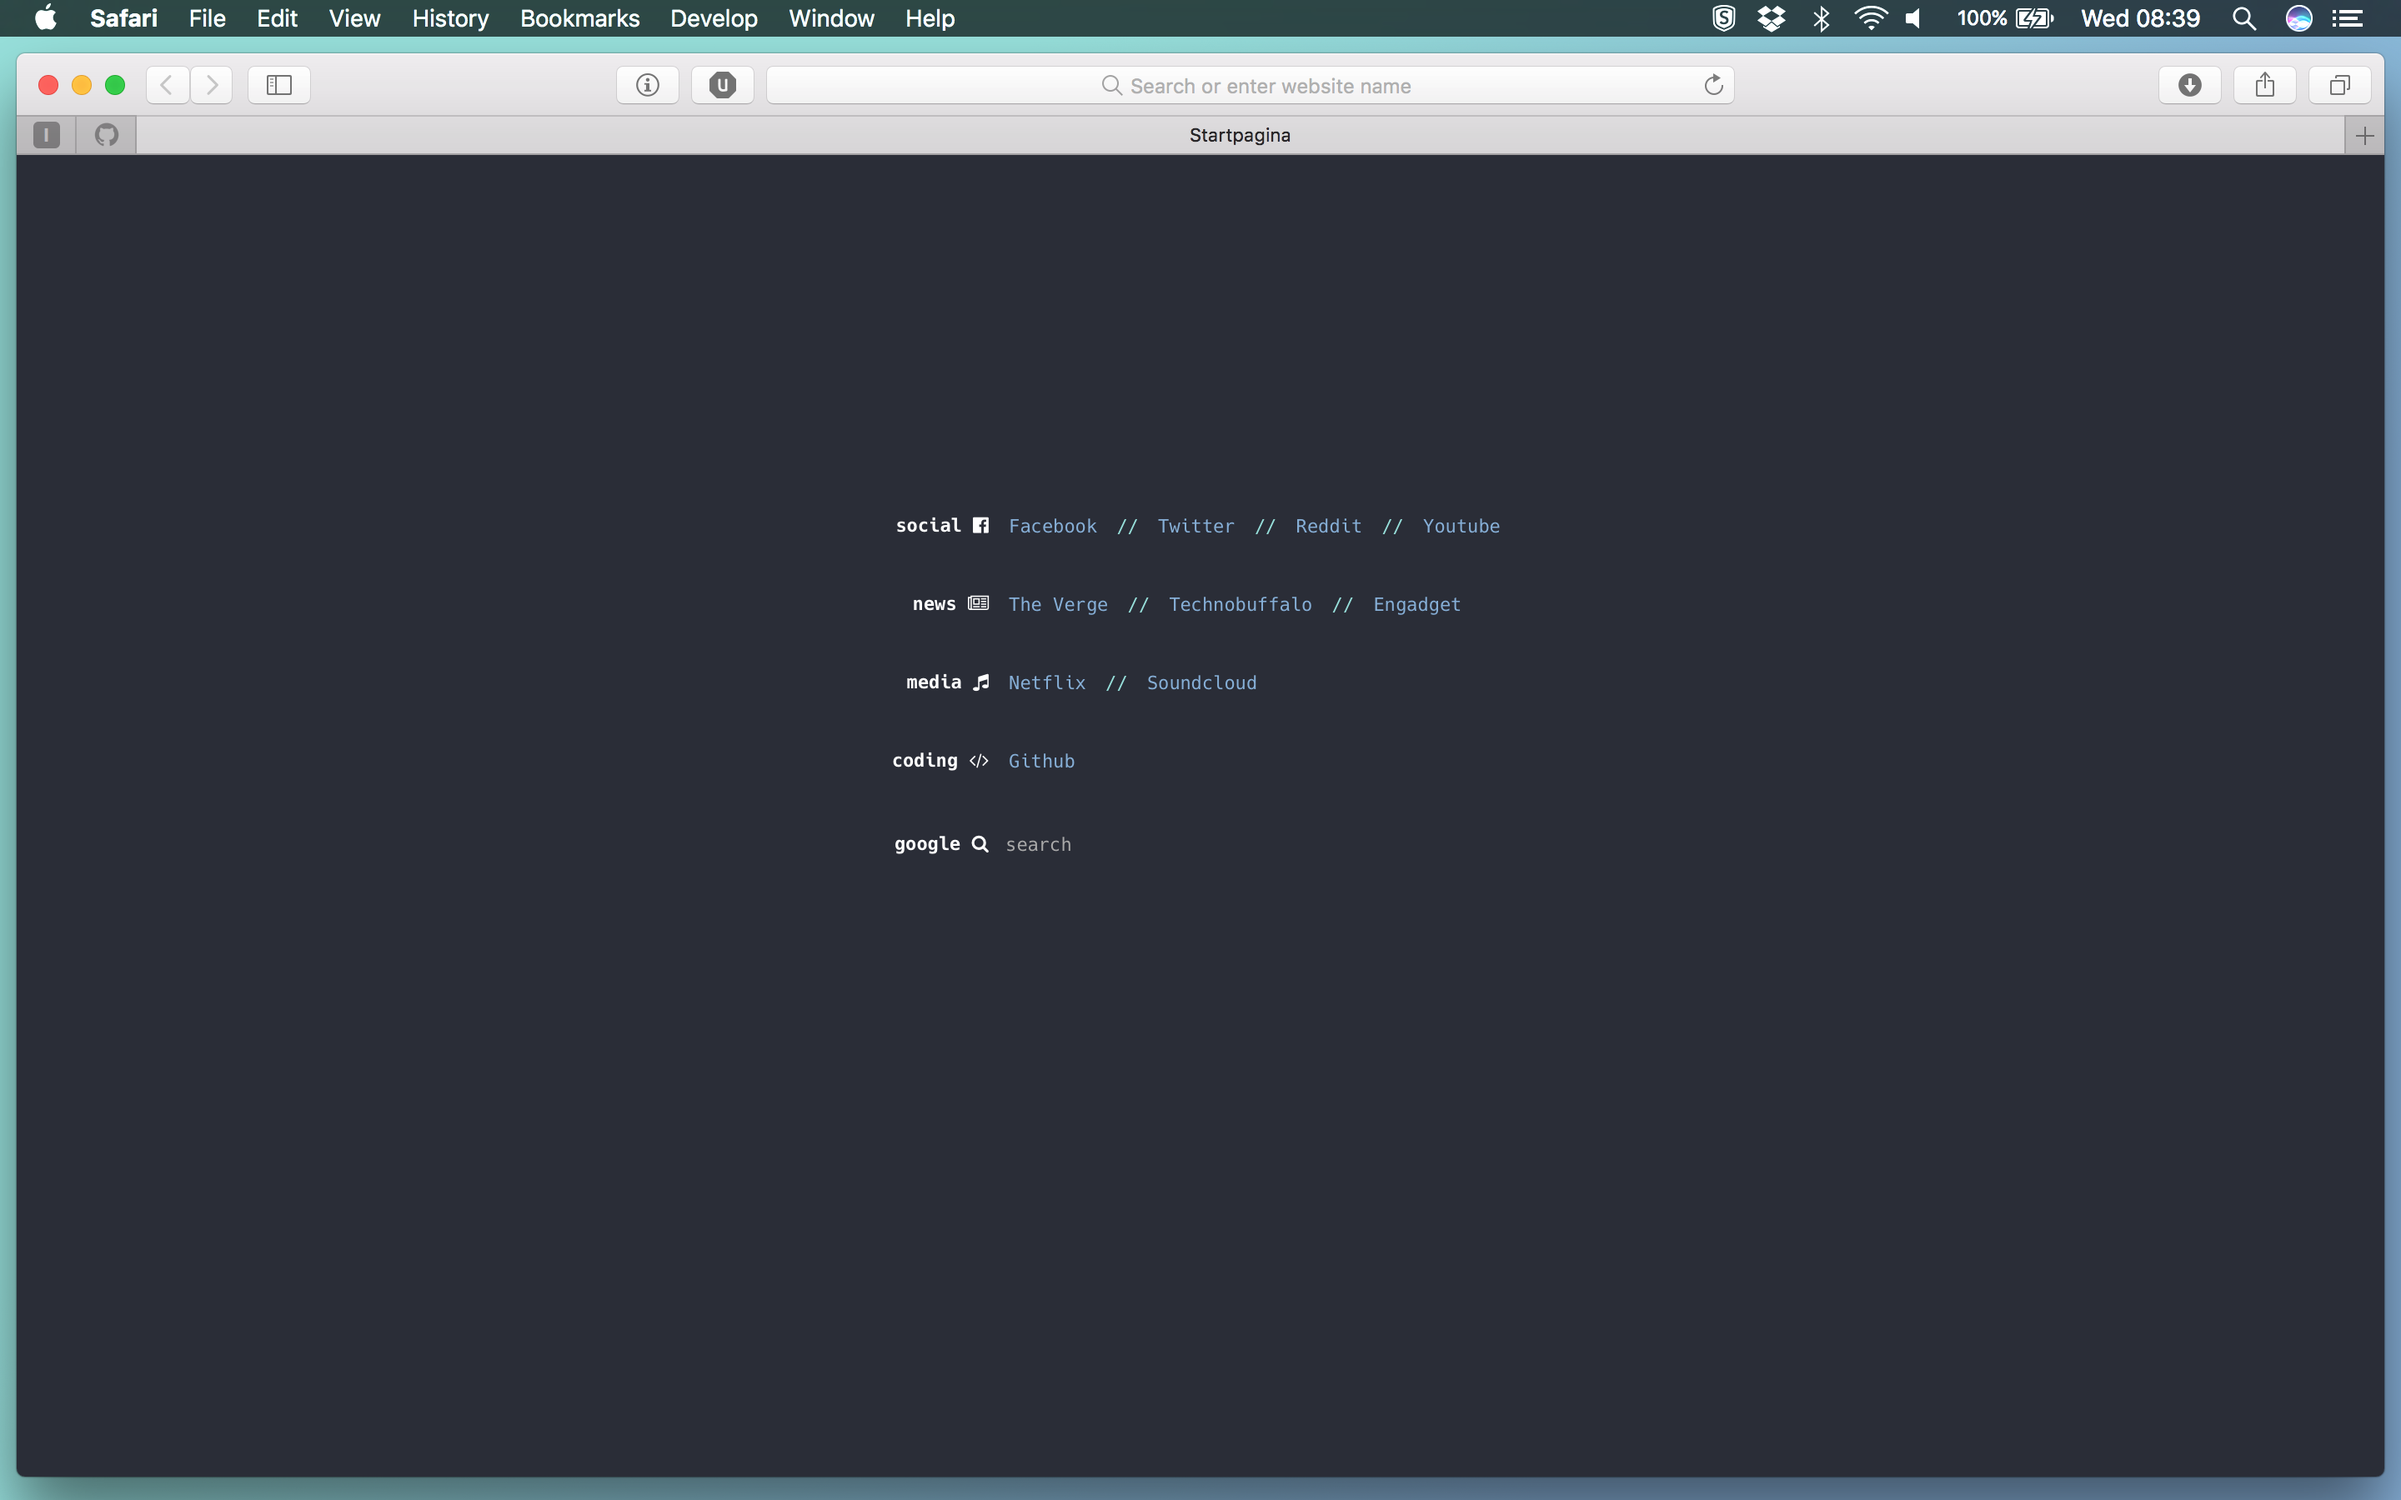
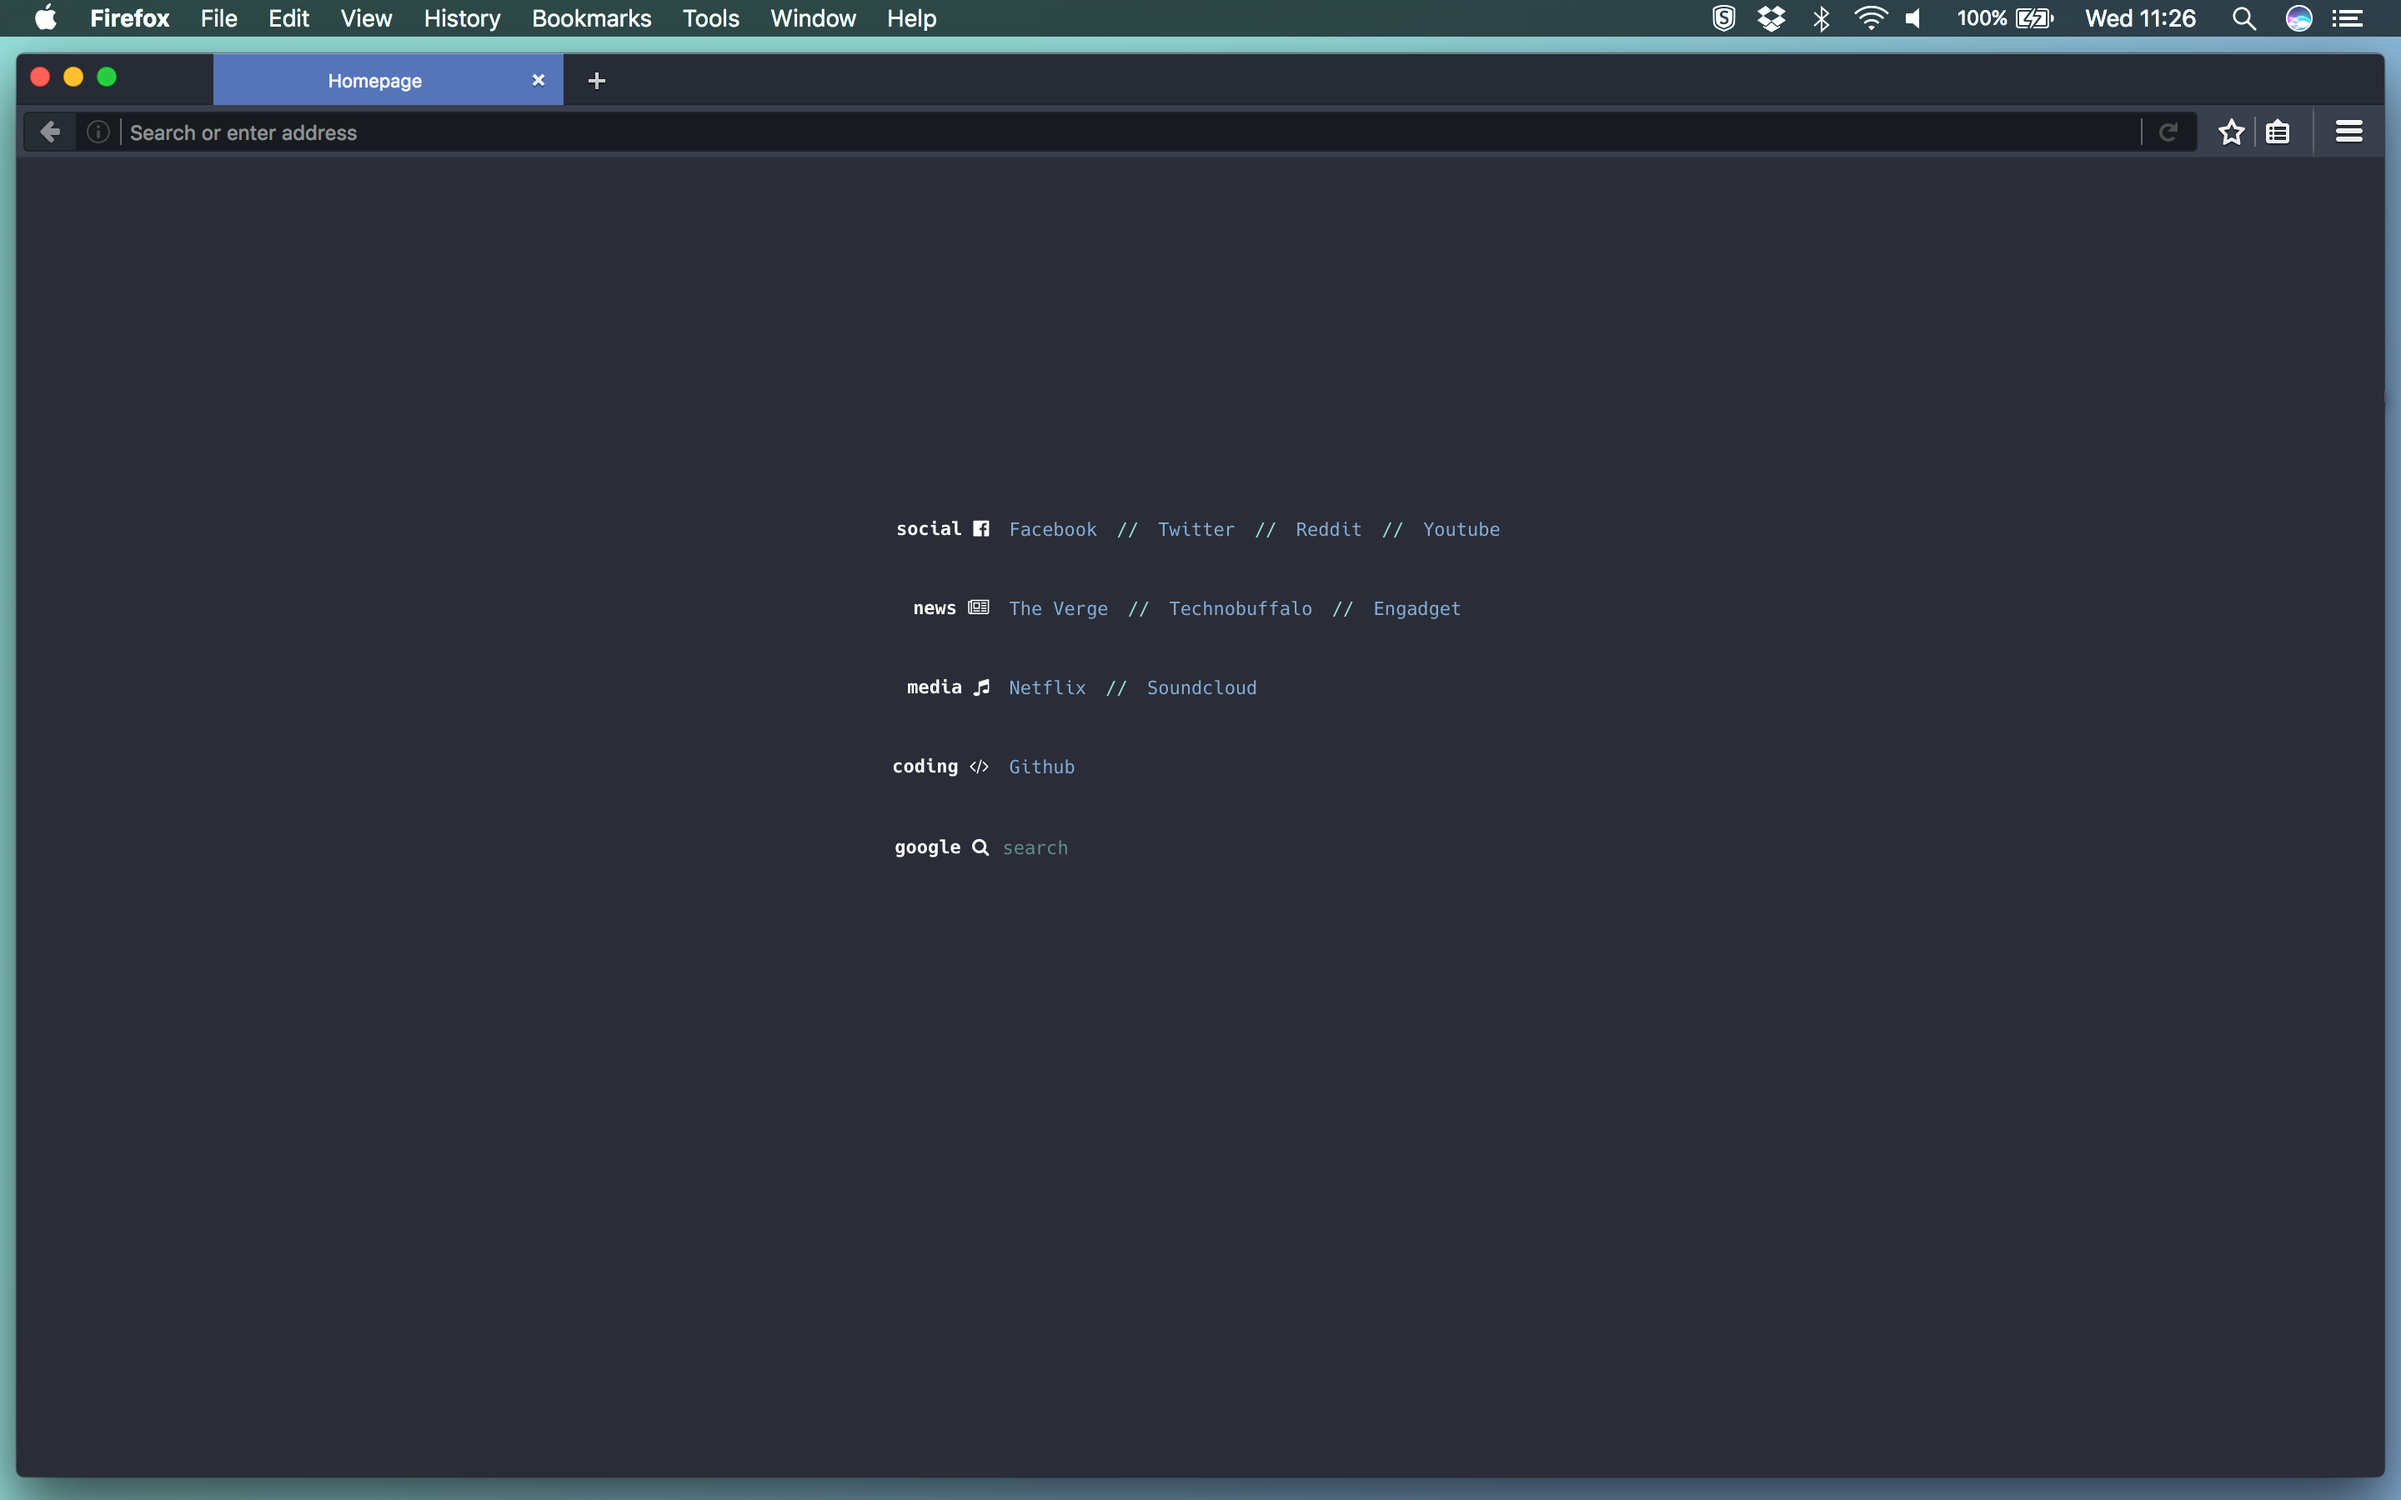
update to autofocus + new screenshot

diff --git a/index.html b/index.html
@@ -2,7 +2,7 @@
 <html>
     <head>
         <meta charset="utf-8">
-        <title>Startpagina</title>
+        <title>Homepage</title>
         <link rel="stylesheet" href="css/font-awesome.min.css">
         <link rel="stylesheet" href="css/styles.css">
     </head>
@@ -82,7 +82,7 @@
                         </td>
                         <td>
                             <form method="get" action="http://www.google.com/search">
-                                <input type="text" name="q" size=31 maxlength=255 value="" placeholder="search" autofocus="true">
+                                <input type="text" name="q" size=31 maxlength=255 value="" placeholder="search">
                             </form>
                         </td>
                     </tr>
